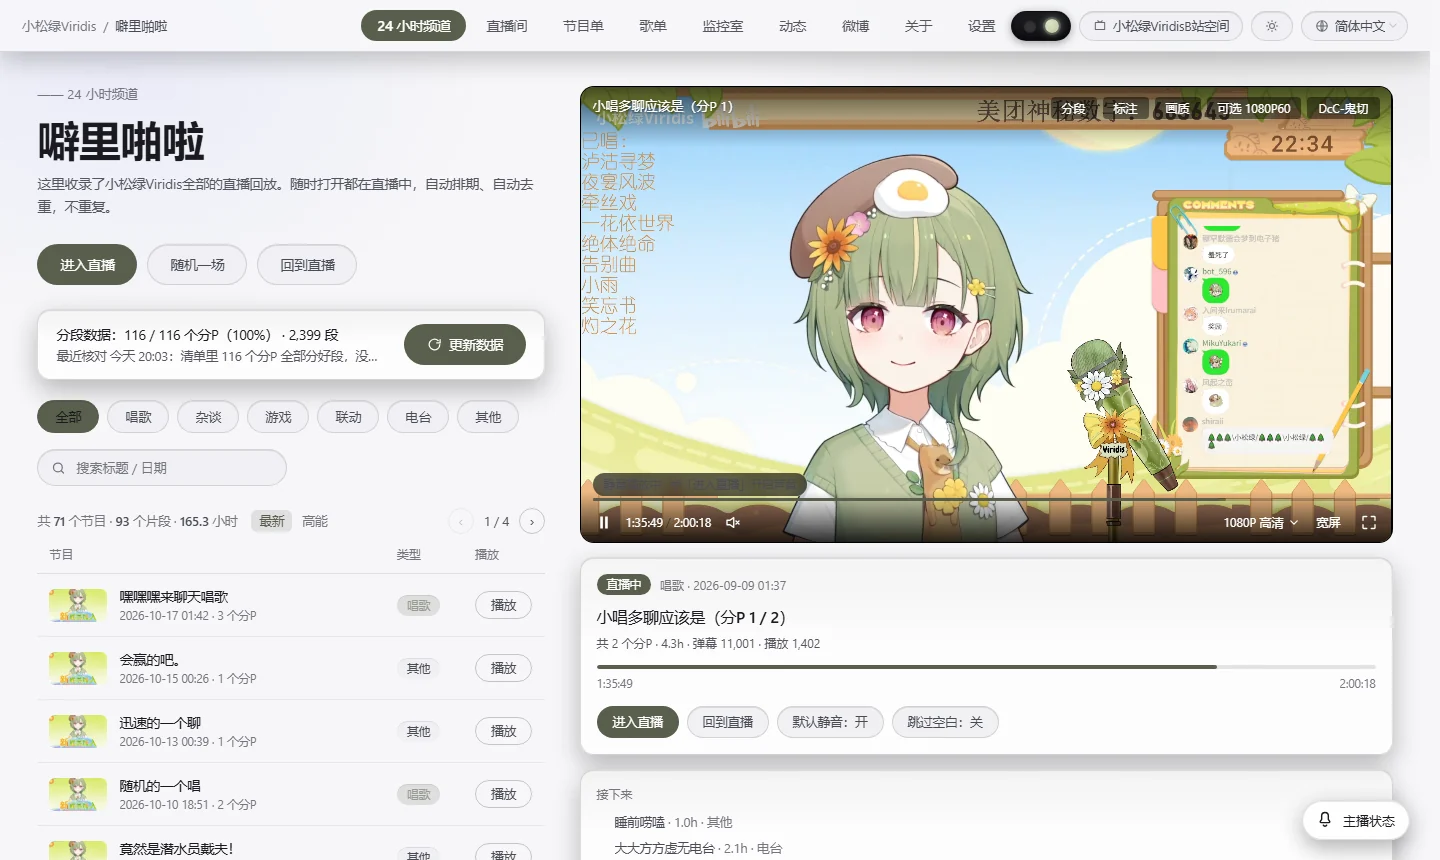
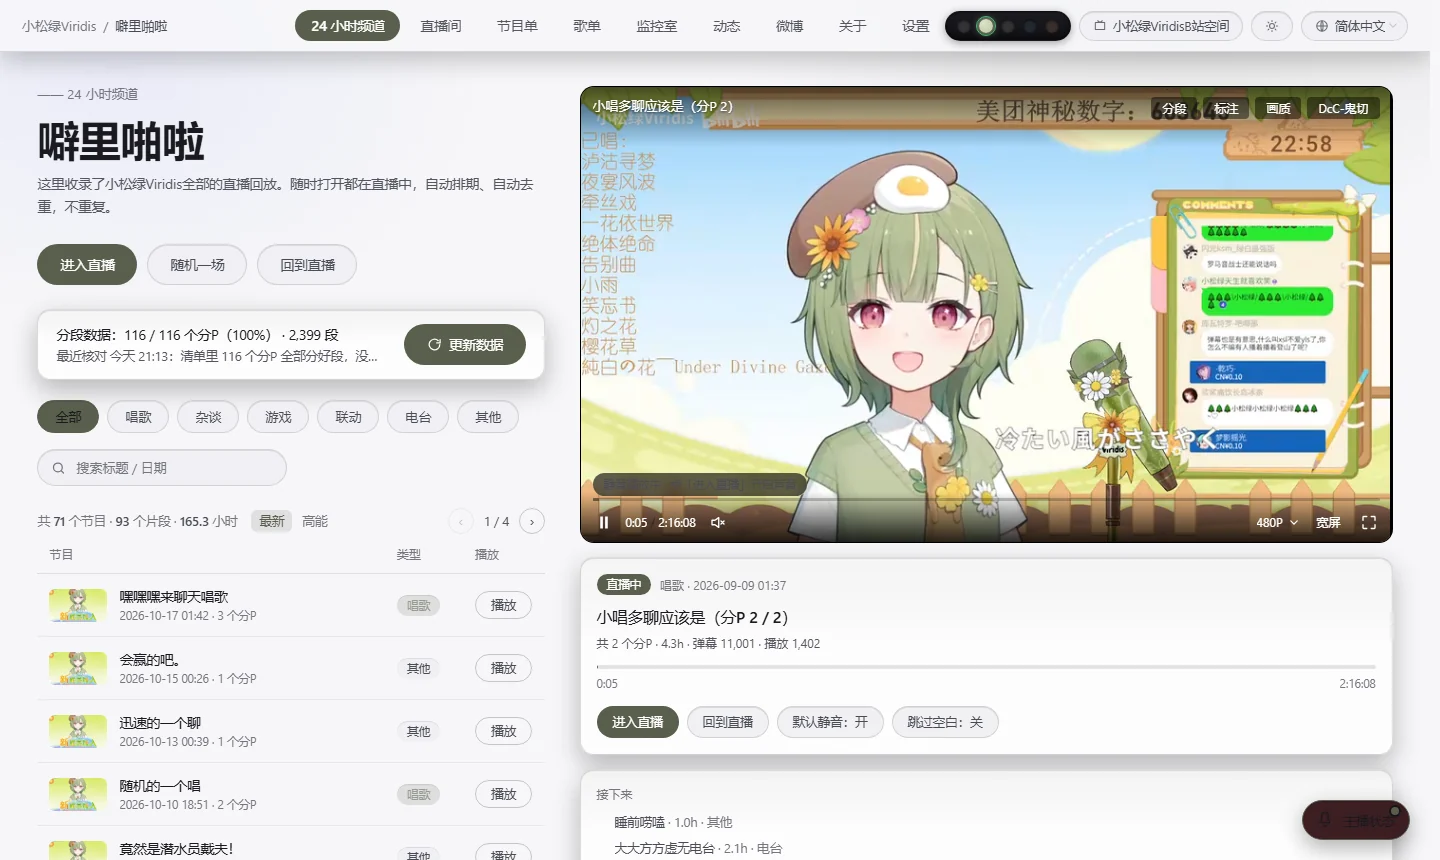
官网：九张截图全部重拍（主播开播时段，v1.0.35 实机）
- 直播间 / 监控室这次是真实直播画面 + 实时弹幕，不再是空态
- 去掉上一版为掩盖空态加的 .gal-tag 角标，说明文案恢复
- 首屏三张与画廊六张同步更新，品牌为噼里啪啦

diff --git a/site/index.html b/site/index.html
@@ -172,9 +172,6 @@ h2{font-size:clamp(24px,3.2vw,36px);line-height:1.25;letter-spacing:-.01em;font-
   box-shadow:0 30px 66px -28px rgba(0,0,0,.92)}
 html[data-theme="light"] .gal:hover{box-shadow:0 30px 66px -30px rgba(20,20,40,.35)}
 .gal img{width:100%;height:auto}
-.gal-tag{position:absolute;top:10px;left:10px;z-index:2;font-family:var(--mono);font-size:11px;
-  color:#dedee6;background:rgba(10,10,14,.72);border:1px solid rgba(255,255,255,.18);
-  border-radius:999px;padding:3px 9px;backdrop-filter:blur(6px)}
 .gal figcaption{position:absolute;left:0;right:0;bottom:0;padding:26px 16px 12px;font-size:13px;color:#e8e8ee;
   background:linear-gradient(transparent,rgba(6,6,9,.88));display:flex;justify-content:space-between;gap:12px}
 .gal figcaption span{color:#9a9aa6;font-family:var(--mono);font-size:11px}
@@ -418,16 +415,14 @@ footer{border-top:1px solid var(--line);padding:44px 0 56px;background:var(--bg-
     <div class="reveal">
       <p class="eyebrow">SCREENSHOTS</p>
       <h2>真实运行界面</h2>
-      <p class="sub">以下均为本机运行时的实拍，未做视觉修饰；主播未开播的板块按空态展示，角标已注明。</p>
+      <p class="sub">以下均为本机运行时的实拍，未做视觉修饰。</p>
     </div>
     <div class="gallery">
       <figure class="gal reveal">
-        <span class="gal-tag">主播未开播 · 右侧弹幕面板照常</span>
-        <img src="assets/app-broadcast.webp" alt="直播间：左侧直播画面，右侧直播状态、实时弹幕与发弹幕框" width="1440" height="860" loading="lazy" />
+        <img src="assets/app-broadcast.webp" alt="直播间：左侧直播画面与实时弹幕，右侧是直播状态与发弹幕框" width="1440" height="860" loading="lazy" />
         <figcaption>直播间：画面、弹幕、发弹幕<span>BROADCAST</span></figcaption>
       </figure>
       <figure class="gal reveal">
-        <span class="gal-tag">两路均未开播</span>
         <img src="assets/app-monitor.webp" alt="监控室：同时看多路直播，布局与音量可分别设置" width="1440" height="860" loading="lazy" />
         <figcaption>监控室：多路同时看<span>MONITOR</span></figcaption>
       </figure>

diff --git a/site/README.md b/site/README.md
@@ -123,7 +123,8 @@ var ASSET_SIZE_MB = 53;        // 安装包体积（MB）
 
 截图取自本机运行中的实例（1440×860 视口，无头 Chrome 直接抓，不做后期）。
 换图时保持 1440×860，同名覆盖 `assets/` 下对应文件即可，页面用 `width/height` 占位，不会跳版。
-主播未开播的板块（直播间 / 监控室）用 `.gal-tag` 角标注明空态，不伪造画面。
+截图优先挑主播开播的时段拍（直播间 / 监控室才有画面）；主播不在线时那两个板块只会是空态，
+需要的话临时加 `.gal-tag` 角标注明，不要伪造画面。
 
 ## 已知限制
 
